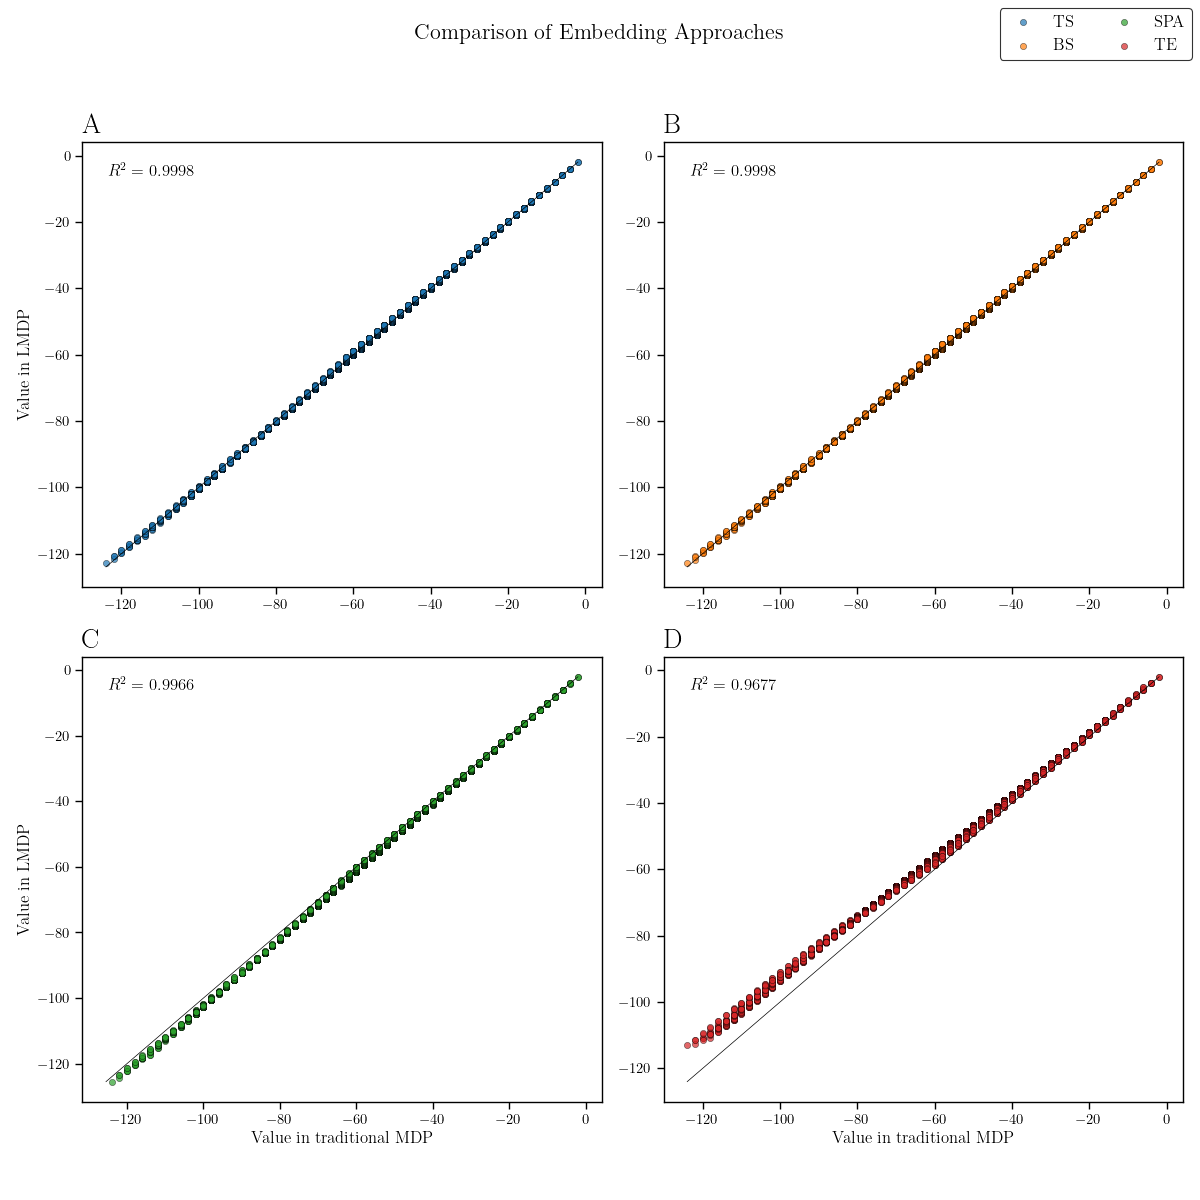
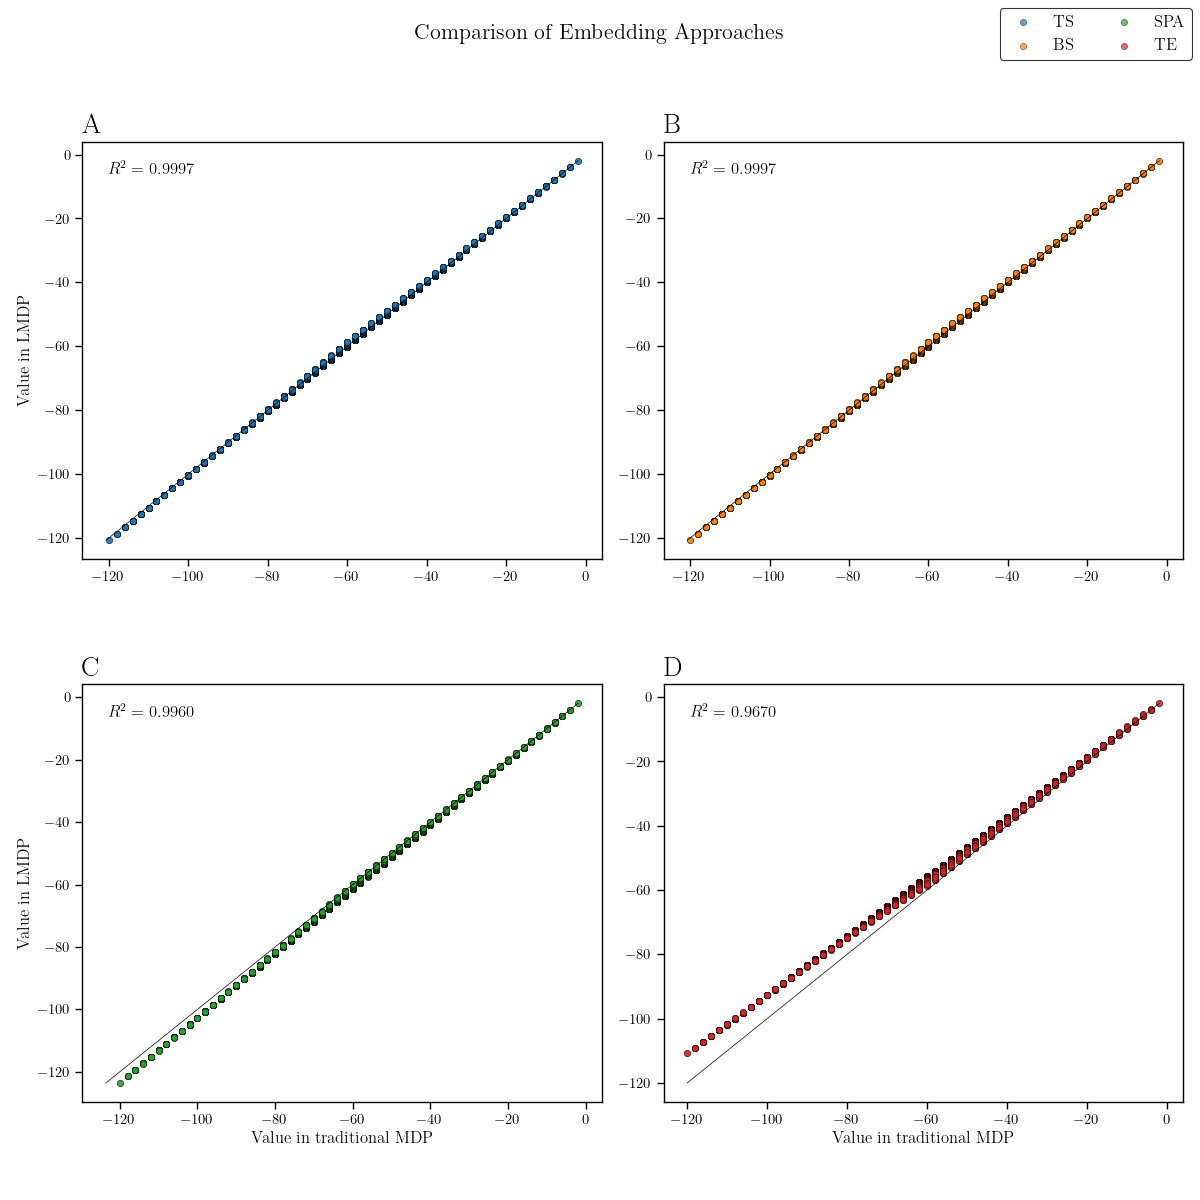
deterministic embedding tests

diff --git a/test.py b/test.py
@@ -11,8 +11,8 @@ import cProfile
 
 if __name__ == "__main__":
     
-    grid_size = 30
-    walls = [(14,1), (1,8), (5, 5), (12, 5), (8, 7), (2,5), (3,5), (4,5), (6,5), (7,5), (8,5), (9,5), (10,5), (11,5), (13,5), (15,9)]
+    grid_size = 5
+    walls = []#(14,1), (1,8), (5, 5), (12, 5), (8, 7), (2,5), (3,5), (4,5), (6,5), (7,5), (8,5), (9,5), (10,5), (11,5), (13,5), (15,9)]
     
     # MDP
     minigrid_mdp = Minigrid_MDP(grid_size=grid_size, walls = walls)
@@ -54,8 +54,8 @@ if __name__ == "__main__":
     # q_averaged_throughputs = plot_episode_throughput(throughputs, minigrid_mdp.shortest_path_length(opt_policy), plot_batch=True)
 
     # LMDP
-    minigrid = Minigrid(grid_size=grid_size, walls=walls)
-    minigrid_plots = Minigrid_LMDP_Plotter(minigrid)
+    # minigrid = Minigrid(grid_size=grid_size, walls=walls)
+    # minigrid_plots = Minigrid_LMDP_Plotter(minigrid)
 
     # # Power Iteration LMDP
     # lmbda = 1
@@ -105,29 +105,37 @@ if __name__ == "__main__":
     #print("Embedding Mean Squared Error: ", np.round(embedding_rmse*100,5), "%")
 
 
-    #cProfile.run('minigrid_mdp.embedding_to_LMDP()', sort='tottime')
-    #minigrid_lmdp, embedding_mse = minigrid_mdp.embedding_to_LMDP()
-    #print("Embedding Mean Squared Error: ", embedding_mse)
+    # mdp = Minigrid_MDP(grid_size=30, walls = walls)
+    # lmdp, embedding_mse = mdp.embedding_to_LMDP()
+    # print("Embedding Mean Squared Error: ", embedding_mse)
+    # lmdp2, embedding_mse = mdp.embedding_to_LMDP(binary=True)
+    # print("Embedding Mean Squared Error: ", embedding_mse)
+    # lmdp3, embedding_mse = mdp.embedding_to_LMDP(iterative=True)
+    # print("Embedding Mean Squared Error: ", embedding_mse)
+    # lmdp4, embedding_mse = mdp.embedding_to_LMDP(todorov=True)
+    # print("Embedding Mean Squared Error: ", embedding_mse)
 
+    grid_sizes = [2,3,5,10,15,20,30,40,50,60]
+    mses = [[],[],[]]#,[]]
+    for grid_size in grid_sizes:
+        print(grid_size)
+        mdp = Minigrid_MDP(grid_size=grid_size, walls = [])
+        _, embedding_mse = mdp.embedding_to_LMDP()
+        mses[0].append(embedding_mse)
+        print(embedding_mse)
+        # _, embedding_mse = mdp.embedding_to_LMDP(binary=True)
+        # mses[1].append(embedding_mse)
+        _, embedding_mse = mdp.embedding_to_LMDP(iterative=True)
+        mses[1].append(embedding_mse)
+        print(embedding_mse)
+        _, embedding_mse = mdp.embedding_to_LMDP(todorov=False)
+        mses[2].append(embedding_mse)
+    
+    minigrid_mdp_plots.plot_mse_vs_grid_size([16,36,100,400,900,1600,3600,6400,10000,14400], mses, ["TS", "SPA", "TE"], save_path = "plots/")
 
-    #mdp_minigrid, embedding_mse = minigrid.embedding_to_MDP()
-    #print("Embedding Mean Squared Error: ", embedding_mse)
-    start_time = time.time()
-    minigrid_lmdp1, embedding_mse = minigrid_mdp.embedding_to_LMDP()
-    print("Execution time: ", time.time() - start_time)
-    print("Embedding Mean Squared Error: ", embedding_mse)
-    minigrid_lmdp2, embedding_mse2 = minigrid_mdp.embedding_to_LMDP(binary=True)
-    print("Execution time: ", time.time() - start_time)
-    print("Embedding Mean Squared Error: ", embedding_mse2)
-    minigrid_lmdp3, embedding_mse3 = minigrid_mdp.embedding_to_LMDP(iterative=True)
-    print("Execution time: ", time.time() - start_time)
-    print("Embedding Mean Squared Error: ", embedding_mse3)
-    minigrid_lmdp4, embedding_mse4 = minigrid_mdp.embedding_to_LMDP(todorov=True)
-    print("Execution time: ", time.time() - start_time)
-    print("Embedding Mean Squared Error: ", embedding_mse4)
     
 
-    minigrid_plots.plot_embedding_error_scatter(minigrid_mdp, [minigrid_lmdp1, minigrid_lmdp2, minigrid_lmdp3, minigrid_lmdp4], ["TS", "BS", "SPA", "TE"], save_path = "plots\embedding_error_scatter.png")
+    #minigrid_mdp_plots.plot_embedding_error_scatter(mdp, [lmdp, lmdp2, lmdp3, lmdp4], ["TS","BS", "SPA", "TE"], save_path = "plots\embedding_error_scatter.png")
 
     # #print(minigrid_lmdp.R)
     # #print(minigrid_lmdp.P0)

diff --git a/testsimple.py b/testsimple.py
@@ -4,9 +4,9 @@ import numpy as np
 import time
 
 if __name__ == "__main__":
-    grid_size = 35
+    grid_size = 5
 
-    g = SimpleGrid(grid_size)
+    #g = SimpleGrid(grid_size)
     # Z, nsteps = g.power_iteration(1, 1e-10)
     # #print(Z)
     # #print(g.Z_to_V(Z))
@@ -41,24 +41,35 @@ if __name__ == "__main__":
     mdp = SimpleGrid_MDP(grid_size)
     minigrid_mdp_plots = Minigrid_MDP_Plotter(mdp)
     
-    start_time = time.time()
-    minigrid_lmdp1, embedding_mse = mdp.embedding_to_LMDP()
-    print("Execution time: ", time.time() - start_time)
-    print("Embedding Mean Squared Error: ", embedding_mse)
-    minigrid_lmdp2, embedding_mse2 = mdp.embedding_to_LMDP(binary=True)
-    print("Execution time: ", time.time() - start_time)
-    print("Embedding Mean Squared Error: ", embedding_mse2)
-    minigrid_lmdp3, embedding_mse3 = mdp.embedding_to_LMDP(iterative=True)
-    print("Execution time: ", time.time() - start_time)
-    print("Embedding Mean Squared Error: ", embedding_mse3)
-    minigrid_lmdp4, embedding_mse4 = mdp.embedding_to_LMDP(todorov=True)
-    print("Execution time: ", time.time() - start_time)
-    print("Embedding Mean Squared Error: ", embedding_mse4)
+    # start_time = time.time()
+    # minigrid_lmdp1, embedding_mse = mdp.embedding_to_LMDP()
+    # print("Execution time: ", time.time() - start_time)
+    # print("Embedding Mean Squared Error: ", embedding_mse)
+    # start_time = time.time()
+    # minigrid_lmdp4, embedding_mse4 = mdp.embedding_to_LMDP(todorov=True)
+    # print("Execution time: ", time.time() - start_time)
+    # print("Embedding Mean Squared Error: ", embedding_mse4)
     
 
-    minigrid_mdp_plots.plot_embedding_error_scatter(mdp, [minigrid_lmdp1, minigrid_lmdp2, minigrid_lmdp3, minigrid_lmdp4], ["TS", "BS", "SPA", "TE"], save_path = "plots\embedding_error_scatter_simple.png")
+    # minigrid_mdp_plots.plot_embedding_error_scatter(mdp, [minigrid_lmdp1, minigrid_lmdp4], ["TS", "TE"], save_path = "plots\embedding_error_scatter_simple.png")
 
-
+    grid_sizes = [2,3,5,10,15,20,30,40,50]
+    mses = [[],[],[]]#,[]]
+    for grid_size in grid_sizes:
+        print(grid_size)
+        mdp = SimpleGrid_MDP(grid_size)
+        _, embedding_mse = mdp.embedding_to_LMDP()
+        mses[0].append(embedding_mse)
+        print(embedding_mse)
+        # _, embedding_mse = mdp.embedding_to_LMDP(binary=True)
+        # mses[1].append(embedding_mse)
+        _, embedding_mse = mdp.embedding_to_LMDP(iterative=True)
+        mses[1].append(embedding_mse)
+        print(embedding_mse)
+        # _, embedding_mse = mdp.embedding_to_LMDP(todorov=True)
+        # mses[2].append(embedding_mse)
+    
+    minigrid_mdp_plots.plot_mse_vs_grid_size([4,9,25,100,225,400,900,1600,2500], mses, ["TS", "TSA"], save_path = "plots/")
     # lmdp, embedding_mse = mdp.embedding_to_LMDP()
     # print("Total embedding error (Deterministic MDP -> LMDP): ", embedding_mse)
     #print(lmdp.R)

diff --git a/frameworks/mdp.py b/frameworks/mdp.py
@@ -102,7 +102,7 @@ class MDP:
                 lmdp.P0 = np.sum(self.P, axis = 1)/self.n_actions
                 Z, _ = lmdp.power_iteration(lmbda)
                 i=0
-                while np.mean(np.square(lmdp.Z_to_V(Z) - V))/np.mean(np.square(V)) > 0.1 and i < 50:
+                while np.mean(np.square(lmdp.Z_to_V(Z) - V))/np.mean(np.square(V)) > 0.1 and i < 1:
                     Pu = lmdp.compute_Pu(Z)
                     row_indices = np.repeat(np.arange(Pu.shape[0]), np.diff(Pu.indptr))
                     log_ratio = np.log(Pu.data / lmdp.P0[row_indices, Pu.indices])
@@ -150,7 +150,7 @@ class MDP:
                 lmdp.P0 = csr_matrix(lmdp.P0) #TODO: check for simple grid 3x3 
 
                 #Find the optimal K through ternary search
-                while K_max - K_min > 1e-5:
+                while K_max - K_min > 1e-10:
                     m1 = K_min + (K_max - K_min) / 3
                     lmdp.R = m1 * R
                     Z1, _ = lmdp.power_iteration(lmbda)
@@ -166,7 +166,6 @@ class MDP:
                         K_max = m2
 
                 lmdp.R = K_min * R
-
 
         # Apply the non-deterministic LMDP embedding (from Todorov et al. 2009)
         else:
@@ -277,7 +276,7 @@ class Minigrid_MDP(MDP):
         for state in range(self.n_nonterminal_states):
             for action in self.actions:
                 if uniform_reward:
-                    self.R[state][action] = -2.0
+                    self.R[state][action] = -1.0
                 else:
                     next_state = self._state_step(self.states[state], action)
                     pos = self.env.grid.get(next_state[0], next_state[1])

diff --git a/utils/plot.py b/utils/plot.py
@@ -87,11 +87,38 @@ class Plotter:
 
         plt.suptitle('Comparison of Embedding Approaches', fontsize=16)
         plt.tight_layout(rect=[0, 0.03, 1, 0.95])
+
+        plt.subplots_adjust(hspace=0.3)
         
         plt.savefig(save_path + 'embedding_error.png')
         plt.show()
         plt.clf()
 
+    def plot_mse_vs_grid_size(self, n_states, mse_values, names, save_path = 'plots/'):
+        df = pd.DataFrame()
+        for mse, name in zip(mse_values, names):
+            temp_df = pd.DataFrame({'Number of States': n_states, 'MSE': mse, 'Method': name})
+            df = pd.concat([df, temp_df], ignore_index=True)
+        
+        plt.figure(figsize=(8, 6))
+        ax = sns.lineplot(data=df, x='Number of States', y='MSE', hue='Method', style='Method', markers=True, dashes=False)
+
+        plt.xlabel('Number of States', fontsize=14)
+        plt.ylabel('Mean Squared Error (MSE)', fontsize=14)
+        #plt.yscale('log')  # Use logarithmic scale for y-axis
+        plt.title('MSE vs. Number of States for Embedding Approaches', fontsize=16)
+        plt.grid(True, which="both", ls="--", linewidth=0.5)
+
+        # Customize legend
+        legend = plt.legend(loc='upper right', fontsize=12)
+        legend.get_frame().set_edgecolor('black')  
+        
+        
+
+        plt.tight_layout()
+        plt.savefig(save_path + 'mse_vs_n_states2.png')
+        plt.show()
+        plt.clf()
 
     def plot_episode_length(self, lengths, opt_length, plot_batch=False, batch_size=50):
         print("Number of episodes: ", len(lengths))

diff --git a/frameworks/simplegrid.py b/frameworks/simplegrid.py
@@ -64,4 +64,4 @@ class SimpleGrid_MDP(MDP):
                         self.P[state][3][state] = 1
 
         # construct reward function
-        self.R[0:self.n_nonterminal_states][:] = -2
+        self.R[0:self.n_nonterminal_states][:] = -1
